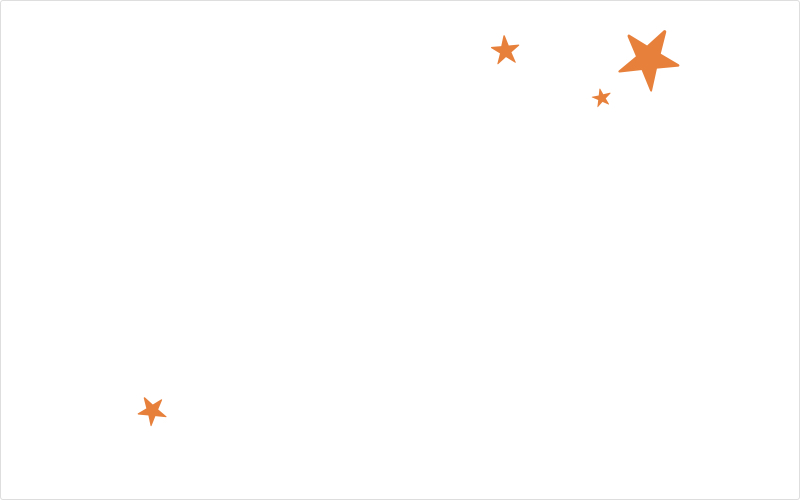
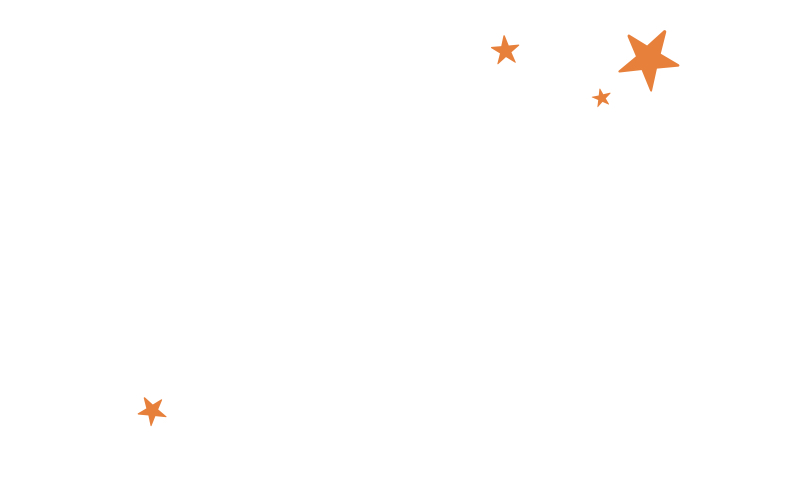
fix styles and replace product image

Changed region(s): [[0.0, 0.99, 1.0, 1.0]]

diff --git a/vendor/assets/stylesheets/spree/frontend/cool_choice_store.sass b/vendor/assets/stylesheets/spree/frontend/cool_choice_store.sass
@@ -148,6 +148,8 @@ input.button
     width: 800px
     height: 500px
     background: image-url("home/wish_bj.jpg") center/100% no-repeat
+    border-radius: 3px
+    border: solid 1px #dedede
     color: #474c5d
     vertical-align: middle
     .title
@@ -686,9 +688,8 @@ input.button
     background: image-url("gift/bj_gift_card.jpg")
     .product
       position: absolute
-      left: 120px
+      left: 130px
       bottom: 64px
-      width: 82px
     .word
       position: absolute
       top: 100px
